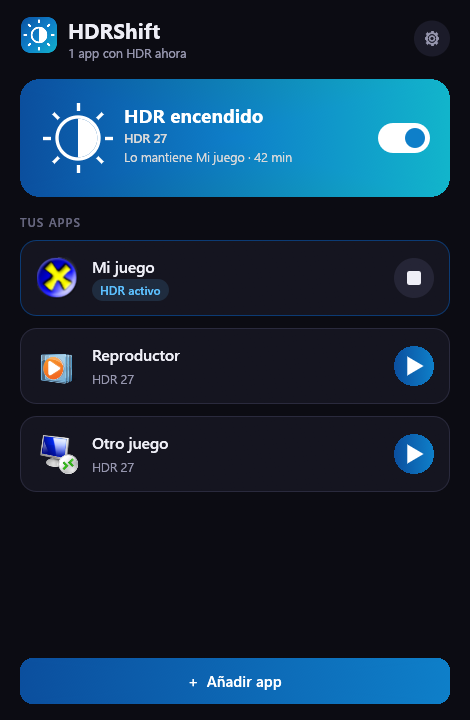
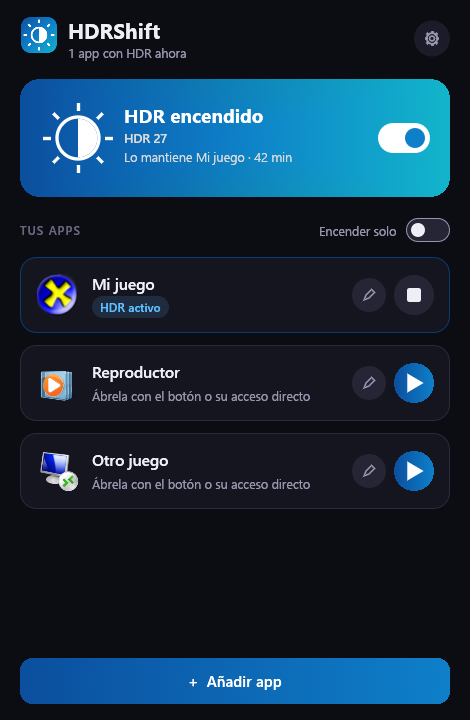
Deja claro cuándo se enciende el HDR y añade Ko-fi
- Interruptor "Encender solo" en la pantalla principal, con la detección
  automática a la vista en lugar de solo en Ajustes.
- Botón de lápiz en cada app para editarla.
- Los textos dicen lo que pasará según esté o no la detección activa.
- Ko-fi en el botón Sponsor, los README y Acerca de.

diff --git a/app/src/ui/mod.rs b/app/src/ui/mod.rs
@@ -12,7 +12,9 @@ mod widgets;
 
 use std::time::{Duration, Instant, SystemTime};
 
-use eframe::egui::{self, Align2, Color32, CornerRadius, Rect, Sense, Stroke, StrokeKind, TextureHandle, pos2, vec2};
+use eframe::egui::{
+    self, Align2, Color32, CornerRadius, Pos2, Rect, Sense, Stroke, StrokeKind, TextureHandle, pos2, vec2,
+};
 use hdrshift_core::command::Command;
 use hdrshift_core::config::{AppEntry, Config};
 use hdrshift_core::display::{Display, Displays, SystemDisplays, resolve};
@@ -341,7 +343,22 @@ fn home(ui: &mut egui::Ui, app: &mut App) -> Option<Page> {
         });
     }
 
-    widgets::section_title(ui, tr("Tus apps", "Your apps"));
+    ui.add_space(4.0);
+    ui.horizontal(|ui| {
+        widgets::section_label(ui, tr("Tus apps", "Your apps"));
+        ui.with_layout(egui::Layout::right_to_left(egui::Align::Center), |ui| {
+            let mut auto = app.cfg.auto_detect;
+            let tip = tr(
+                "Enciende el HDR cuando abras una de tus apps por cualquier camino, también desde Steam. HDRShift se queda en la bandeja.",
+                "Turns HDR on when you open one of your apps by any route, even from Steam. HDRShift stays in the tray.",
+            );
+            if widgets::toggle(ui, &mut auto).on_hover_text(tip).changed() {
+                set_auto_detect(app, auto);
+            }
+            ui.label(egui::RichText::new(tr("Encender solo", "Turn on by itself")).size(12.5).color(c().muted))
+                .on_hover_text(tip);
+        });
+    });
     let footer = 56.0;
     let apps = app.cfg.apps.clone();
     egui::ScrollArea::vertical().max_height(ui.available_height() - footer).auto_shrink([false, false]).show(
@@ -421,7 +438,12 @@ fn hero(ui: &mut egui::Ui, app: &mut App, d: &Display) {
     let (title, detail) = match (d.hdr_on, by_app, manual) {
         (false, ..) => (
             tr("HDR apagado", "HDR off").to_string(),
-            tr("Se encenderá con tus apps", "It turns on with your apps").to_string(),
+            if app.cfg.auto_detect {
+                tr("Se encenderá solo al abrir tus apps", "It will turn on by itself when you open your apps")
+            } else {
+                tr("Se enciende al abrir una app desde aquí", "It turns on when you open an app from here")
+            }
+            .to_string(),
         ),
         (true, Some(h), _) => {
             let name = &h.label;
@@ -523,7 +545,7 @@ fn app_card(ui: &mut egui::Ui, app: &mut App, entry: &AppEntry) -> CardAction {
     }
 
     let x = rect.left() + 72.0;
-    let text_width = rect.width() - 72.0 - 66.0;
+    let text_width = rect.width() - 72.0 - 112.0;
     let name = widgets::one_line(ui, entry.name.clone(), theme::semibold(15.5), c().text, text_width);
     let name_height = name.size().y;
     ui.painter().galley(pos2(x, rect.center().y - name_height - 1.0), name, c().text);
@@ -540,11 +562,13 @@ fn app_card(ui: &mut egui::Ui, app: &mut App, entry: &AppEntry) -> CardAction {
     } else if monitors.is_empty() {
         widgets::chip_at(ui, pos2(x, chip_y), tr("Sin monitor elegido", "No monitor chosen"), c().warn);
     } else {
-        let text = match monitors.as_slice() {
-            [d] => d.name.clone(),
-            many => trf!("{} monitores", "{} monitors", many.len()),
+        let text = if app.cfg.auto_detect {
+            tr("Se activa sola al abrirla", "Turns on by itself when opened")
+        } else {
+            tr("Ábrela con el botón o su acceso directo", "Open it with the button or its shortcut")
         };
-        ui.painter().text(pos2(x, chip_y), Align2::LEFT_CENTER, text, egui::FontId::proportional(12.5), c().muted);
+        let line = widgets::one_line(ui, text.to_string(), egui::FontId::proportional(12.5), c().muted, text_width);
+        ui.painter().galley(pos2(x, chip_y - line.size().y / 2.0), line, c().muted);
     }
 
     let button = Rect::from_center_size(pos2(rect.right() - 36.0, rect.center().y), vec2(40.0, 40.0));
@@ -559,15 +583,37 @@ fn app_card(ui: &mut egui::Ui, app: &mut App, entry: &AppEntry) -> CardAction {
             action = if running { CardAction::End } else { CardAction::Open };
         }
     }
+    let pencil = Rect::from_center_size(pos2(button.left() - 25.0, rect.center().y), vec2(34.0, 34.0));
+    if widgets::icon_button_at(ui, pencil, id.with("edit"), Glyph::Edit, tr("Editar", "Edit")).clicked() {
+        action = CardAction::Edit;
+    }
+    let on_button = |pos: Pos2| button.contains(pos) || pencil.contains(pos);
     if resp.clicked()
         && matches!(action, CardAction::None)
-        && !button.contains(resp.interact_pointer_pos().unwrap_or_default())
+        && !on_button(resp.interact_pointer_pos().unwrap_or_default())
     {
         action = CardAction::Edit;
     }
     resp.on_hover_cursor(egui::CursorIcon::PointingHand).on_hover_text(tr("Editar", "Edit"));
     ui.add_space(2.0);
     action
+}
+
+/// Interruptor de la pantalla principal. La detección necesita un proceso vivo: al apagarla, la bandeja
+/// solo sigue si Windows la arranca.
+fn set_auto_detect(app: &mut App, on: bool) {
+    let mut cfg = app.cfg.clone();
+    cfg.auto_detect = on;
+    if !on {
+        cfg.stay_in_tray = cfg.start_with_windows;
+    }
+    let cfg = cfg.sanitized();
+    if save_config(&cfg) {
+        if cfg.stay_in_tray && !ipc::service_running() {
+            ipc::spawn_self("--service");
+        }
+        app.cfg = cfg;
+    }
 }
 
 /// Guarda la configuración y avisa al servicio si está en marcha.

diff --git a/app/src/ui/widgets.rs b/app/src/ui/widgets.rs
@@ -45,6 +45,7 @@ pub enum Glyph {
     Monitor,
     Apps,
     Shortcut,
+    Edit,
 }
 
 pub fn glyph(p: &egui::Painter, rect: Rect, g: Glyph, color: Color32) {
@@ -102,6 +103,14 @@ pub fn glyph(p: &egui::Painter, rect: Rect, g: Glyph, color: Color32) {
             p.line_segment([pos2(c.x - 0.06 * s, tip.y), tip], st);
             p.line_segment([pos2(tip.x, c.y + 0.06 * s), tip], st);
         }
+        Glyph::Edit => {
+            // lápiz inclinado: cuerpo y punta
+            let along = vec2(1.0, -1.0).normalized();
+            let across = vec2(1.0, 1.0).normalized() * (0.13 * s);
+            let (back, front) = (c + along * (-0.14 * s), c + along * (0.36 * s));
+            let tip = c + along * (-0.42 * s);
+            p.add(Shape::closed_line(vec![back + across, front + across, front - across, back - across, tip], st));
+        }
     }
 }
 
@@ -111,6 +120,15 @@ pub fn icon_button(ui: &mut Ui, g: Glyph, tooltip: &str) -> Response {
     let hover = ui.ctx().animate_bool_with_time(resp.id, resp.hovered(), 0.12);
     let fill = theme::lerp(c().surface, c().surface_2, 0.4 + hover * 0.6);
     ui.painter().circle_filled(rect.center(), 18.0, fill);
+    glyph(ui.painter(), rect.shrink(9.0), g, theme::lerp(c().muted, c().text, hover));
+    resp.on_hover_cursor(CursorIcon::PointingHand).on_hover_text(tooltip)
+}
+
+/// Botón redondo con un icono, en un sitio fijo.
+pub fn icon_button_at(ui: &Ui, rect: Rect, id: Id, g: Glyph, tooltip: &str) -> Response {
+    let resp = ui.interact(rect, id, Sense::click());
+    let hover = ui.ctx().animate_bool_with_time(resp.id, resp.hovered(), 0.12);
+    ui.painter().circle_filled(rect.center(), rect.width() / 2.0, theme::lerp(c().surface_2, c().border, hover));
     glyph(ui.painter(), rect.shrink(9.0), g, theme::lerp(c().muted, c().text, hover));
     resp.on_hover_cursor(CursorIcon::PointingHand).on_hover_text(tooltip)
 }
@@ -310,6 +328,11 @@ pub fn muted(ui: &mut Ui, text: impl Into<String>) {
 
 pub fn section_title(ui: &mut Ui, text: &str) {
     ui.add_space(6.0);
+    section_label(ui, text);
+}
+
+/// El título de sección sin el margen, para ponerlo en una fila.
+pub fn section_label(ui: &mut Ui, text: &str) {
     ui.label(
         egui::RichText::new(text.to_uppercase()).font(theme::semibold(11.5)).color(c().faint).extra_letter_spacing(1.2),
     );

diff --git a/app/src/ui/settings.rs b/app/src/ui/settings.rs
@@ -269,6 +269,9 @@ impl Settings {
                 if ui.link("GitHub").clicked() {
                     ipc::open_external(hdrshift_core::REPO_URL);
                 }
+                if ui.link(tr("Apoyar en Ko-fi", "Support on Ko-fi")).clicked() {
+                    ipc::open_external(hdrshift_core::KOFI_URL);
+                }
             });
         });
     }

diff --git a/core/src/lib.rs b/core/src/lib.rs
@@ -21,6 +21,7 @@ pub mod watch;
 
 pub const VERSION: &str = env!("CARGO_PKG_VERSION");
 pub const REPO_URL: &str = "https://github.com/Yesid-Robayo/HDRShift";
+pub const KOFI_URL: &str = "https://ko-fi.com/yesidrobayo";
 
 /// Segundos desde la época Unix.
 pub fn now_secs() -> f64 {

diff --git a/README.es.md b/README.es.md
@@ -9,6 +9,7 @@
 ![Plataforma](https://img.shields.io/badge/plataforma-Windows%2010%20%7C%2011-2f5fb3)
 ![Tamaño](https://img.shields.io/badge/tamaño-~5%20MB%2C%20sin%20runtime-0b4f9e)
 ![Idiomas](https://img.shields.io/badge/idiomas-english%20%7C%20español-12b5cb)
+[![Ko-fi](https://img.shields.io/badge/Ko--fi-apoya%20el%20proyecto-ff5e5b?logo=ko-fi&logoColor=white)](https://ko-fi.com/yesidrobayo)
 
 [English](README.md) · **Español** · [Cambios por versión](CHANGELOG.es.md)
 
@@ -43,6 +44,7 @@ vuelve como estaba, y si ya estaba encendido, HDRShift no lo toca.
 - [Tecnología](#-tecnología)
 - [Desarrollo](#-desarrollo)
 - [Créditos](#-créditos)
+- [Apoya el proyecto](#-apoya-el-proyecto)
 - [Licencia y contribuciones](#-licencia-y-contribuciones)
 
 ## ✨ Funciones
@@ -129,11 +131,16 @@ Para desinstalar: en los ajustes, pulsa **Desinstalar…**, elige si conservas t
 
 1. Abre HDRShift. La tarjeta de arriba muestra si tu monitor tiene el HDR encendido, con un interruptor para cambiarlo a mano.
 2. Pulsa **Añadir app**, elige el exe del juego y pulsa **Guardar**. Tus monitores con HDR ya vienen marcados.
-3. Haz clic en la tarjeta de la app y pulsa **Crear acceso directo**.
+3. Pulsa el lápiz de la app y luego **Crear acceso directo**.
 4. A partir de ahora, abre tu juego desde ese acceso directo.
 
 El botón de reproducir de cada tarjeta hace lo mismo. Con una sesión activa se convierte en un botón de parar, que termina la
 sesión y deja el HDR como estaba sin cerrar la app.
+
+¿Prefieres olvidarte? Activa **Encender solo** encima de tus apps: el HDR se enciende las abras como las abras, incluso desde
+Steam. HDRShift se queda entonces en la bandeja.
+
+Para cambiar una app o quitarla, pulsa su lápiz.
 
 Para cerrar HDRShift por completo: **Salir** en el menú de la bandeja, o **Cerrar HDRShift por completo** en los ajustes. Antes
 deja el HDR como estaba.
@@ -145,7 +152,7 @@ deja el HDR como estaba.
 | **Tema** | Como Windows, oscuro o claro. |
 | **Idioma** | Español o inglés. |
 | **Quedarse en la bandeja** | Deja el interruptor a mano. Apagado, HDRShift no deja nada en marcha sin apps abiertas. |
-| **Detectar mis apps solo** | Enciende el HDR cuando una de tus apps se abre por cualquier camino. Necesita **Quedarse en la bandeja**. |
+| **Detectar mis apps solo** | Lo mismo que el interruptor **Encender solo** encima de tus apps. Necesita **Quedarse en la bandeja**. |
 | **Iniciar con Windows** | Arranca en la bandeja. Necesita **Quedarse en la bandeja**. |
 | **Crear acceso directo del interruptor** | Crea un acceso que enciende o apaga el HDR de un clic. |
 
@@ -215,6 +222,11 @@ depuración, `HDRSHIFT_DEMO` (`on`, `off`, `edit`, `settings`, `welcome`) abre u
 - **HDRShift es un proyecto independiente**, sin relación con Microsoft, ASUS ni ninguna otra marca, ni respaldado por ellas.
   Sus nombres pertenecen a sus dueños.
 - **Uso de IA:** esta app se desarrolló con ayuda de herramientas de IA.
+
+## ☕ Apoya el proyecto
+
+HDRShift es gratis y lo hace una sola persona. Si te gusta y quieres apoyarlo, puedes invitarme a un café en
+**[Ko-fi](https://ko-fi.com/yesidrobayo)**. No es obligatorio: contar si funciona con tu monitor también ayuda mucho.
 
 ---
 

diff --git a/README.md b/README.md
@@ -9,6 +9,7 @@
 ![Platform](https://img.shields.io/badge/platform-Windows%2010%20%7C%2011-2f5fb3)
 ![Size](https://img.shields.io/badge/size-~5%20MB%2C%20no%20runtime-0b4f9e)
 ![Languages](https://img.shields.io/badge/languages-english%20%7C%20español-12b5cb)
+[![Ko-fi](https://img.shields.io/badge/Ko--fi-support%20the%20project-ff5e5b?logo=ko-fi&logoColor=white)](https://ko-fi.com/yesidrobayo)
 
 **English** · [Español](README.es.md) · [Changelog](CHANGELOG.md)
 
@@ -43,6 +44,7 @@ HDRShift doesn't touch it.
 - [Technology](#-technology)
 - [Development](#-development)
 - [Credits](#-credits)
+- [Support the project](#-support-the-project)
 - [License and contributions](#-license-and-contributions)
 
 ## ✨ Features
@@ -128,11 +130,16 @@ To uninstall: in the settings, press **Uninstall…**, choose whether to keep yo
 
 1. Open HDRShift. The top card shows whether your monitor has HDR on, with a switch to change it by hand.
 2. Press **Add app**, choose the game's exe and press **Save**. Your HDR monitors are selected already.
-3. Click the app's card and press **Create shortcut**.
+3. Press the app's pencil, then **Create shortcut**.
 4. Open your game from that shortcut from now on.
 
 The play button in each card does the same thing. While a session is active it turns into a stop button, which ends the
 session and puts HDR back without closing the app.
+
+Prefer not to think about it? Turn on **Turn on by itself** above your apps: HDR turns on however you open them, even from
+Steam. HDRShift then stays in the tray.
+
+To change an app or remove it, press its pencil.
 
 To close HDRShift completely: **Quit** in the tray menu, or **Quit HDRShift completely** in the settings. HDR goes back to how
 it was first.
@@ -144,7 +151,7 @@ it was first.
 | **Theme** | Same as Windows, dark or light. |
 | **Language** | Spanish or English. |
 | **Stay in the tray** | Keeps the switch at hand. Off, HDRShift leaves nothing running when no apps are open. |
-| **Detect my apps on its own** | Turns HDR on when one of your apps opens by any route. Needs **Stay in the tray**. |
+| **Detect my apps on its own** | The same as the **Turn on by itself** switch above your apps. Needs **Stay in the tray**. |
 | **Start with Windows** | Starts in the tray. Needs **Stay in the tray**. |
 | **Create the switch shortcut** | Creates a shortcut that turns HDR on or off with one click. |
 
@@ -213,6 +220,11 @@ builds, `HDRSHIFT_DEMO` (`on`, `off`, `edit`, `settings`, `welcome`) opens a scr
 - **HDRShift is an independent project**, not affiliated with or endorsed by Microsoft, ASUS or any other brand. Their
   names belong to their owners.
 - **AI disclosure:** this app was developed with the help of AI tools.
+
+## ☕ Support the project
+
+HDRShift is free and made by a single person. If you like it and want to support it, you can buy me a coffee on
+**[Ko-fi](https://ko-fi.com/yesidrobayo)**. It's not required: telling whether it works with your monitor helps a lot too.
 
 ---
 

diff --git a/SECURITY.md b/SECURITY.md
@@ -29,8 +29,8 @@ Only the latest version published in *Releases* receives fixes.
   is left to restore.
 - **Nothing is executed from a message.** Other processes can only ask for an app already in your list by its id, a switch
   change, ending a session, forgetting what's left to restore, a reload or quitting. Orders are size-limited and rejected if they aren't valid.
-- **No telemetry, no automatic updates, no accounts.** It never connects to the internet. The links in the window only open
-  your browser when you click them.
+- **No telemetry, no automatic updates, no accounts.** It never connects to the internet. The links in the window, like GitHub
+  or Ko-fi, only open your browser when you click them.
 - **A broken file isn't lost**: if `config.json` can't be read, it's first copied to `config.bad.json`. The program and
   arguments in it are run as they are, so treat that file like a shortcut.
 - **The log has no personal data**: no PC or Windows user name, no paths. It does include the names you gave your apps and
@@ -72,8 +72,8 @@ Solo la última versión publicada en *Releases* recibe arreglos.
 - **Nada se ejecuta a partir de un mensaje.** Otros procesos solo pueden pedir por su id una app que ya esté en tu lista, un
   cambio del interruptor, terminar una sesión, olvidar lo que queda por restaurar, recargar o salir. Las órdenes tienen un tamaño máximo y se rechazan si no son
   válidas.
-- **Sin telemetría, sin actualizaciones automáticas y sin cuentas.** Nunca se conecta a internet. Los enlaces de la ventana
-  solo abren tu navegador cuando los pulsas.
+- **Sin telemetría, sin actualizaciones automáticas y sin cuentas.** Nunca se conecta a internet. Los enlaces de la ventana, como GitHub o
+  Ko-fi, solo abren tu navegador cuando los pulsas.
 - **Un archivo dañado no se pierde**: si `config.json` no se puede leer, antes se copia a `config.bad.json`. El programa y los
   argumentos que contiene se ejecutan tal cual, así que trata ese archivo como a un acceso directo.
 - **El log no tiene datos personales**: ni nombre del PC o del usuario de Windows, ni rutas. Sí incluye los nombres que les
